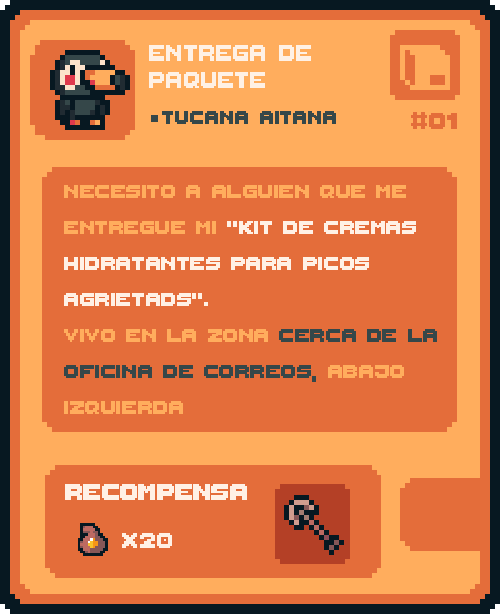
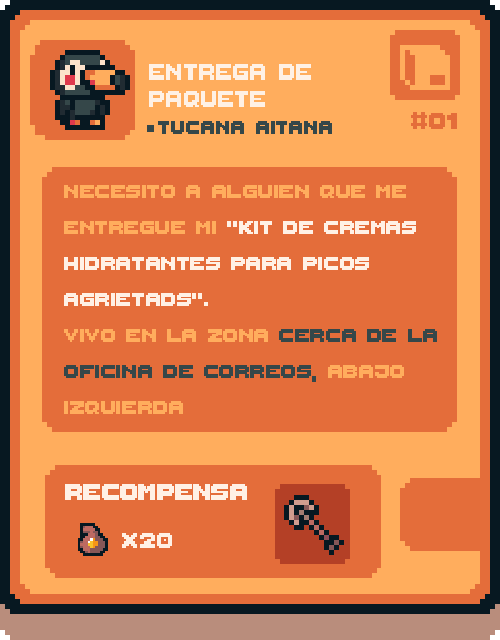
PanelMisiones

diff --git a/MonkeyDelivery/Src/Control/States/MissionSelectionState.cpp b/MonkeyDelivery/Src/Control/States/MissionSelectionState.cpp
@@ -65,12 +65,12 @@ void MissionSelectionState::draw()
 
 	int x = 100;
 	for (auto a : currentTextures_) {
-		textureBox = { x, 50, 500, 614 };
+		textureBox = { x, 150, 500, 640 };
 		a->render(textureBox);
 		x += xInc_;
 	}
 
-	SDL_Rect textureBox2 = { boxXPos_, 50, 500, 614 };
+	SDL_Rect textureBox2 = { boxXPos_, 150, 500, 614 };
 	box_->render(textureBox2);
 }
 

diff --git a/MonkeyDelivery/Src/Logic/MissionsPanel.cpp b/MonkeyDelivery/Src/Logic/MissionsPanel.cpp
@@ -12,8 +12,8 @@
 
 MissionsPanel::MissionsPanel(Game* game) : GameObject(game)
 {
-	setPosition(700, 200);
-	setDimension(120, 140);
+	setPosition(700, 210);
+	setDimension(69, 98);
 	setTexture(missionPanelTexture);
 
 	missionsFinished_ = false;
